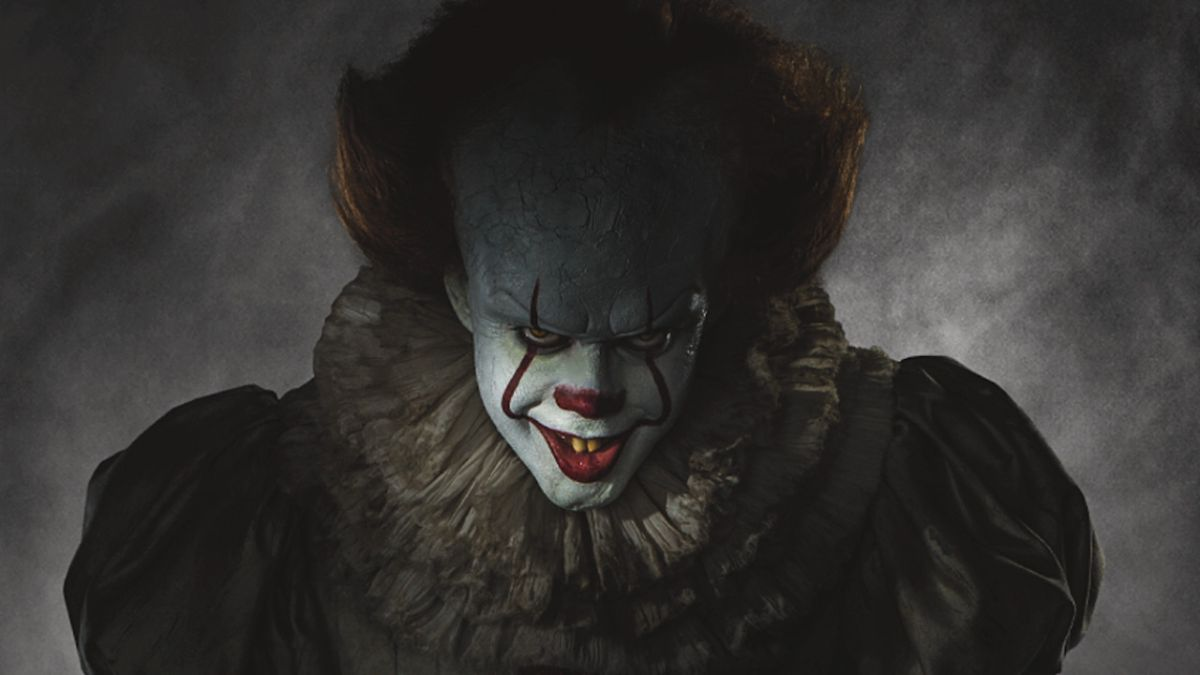
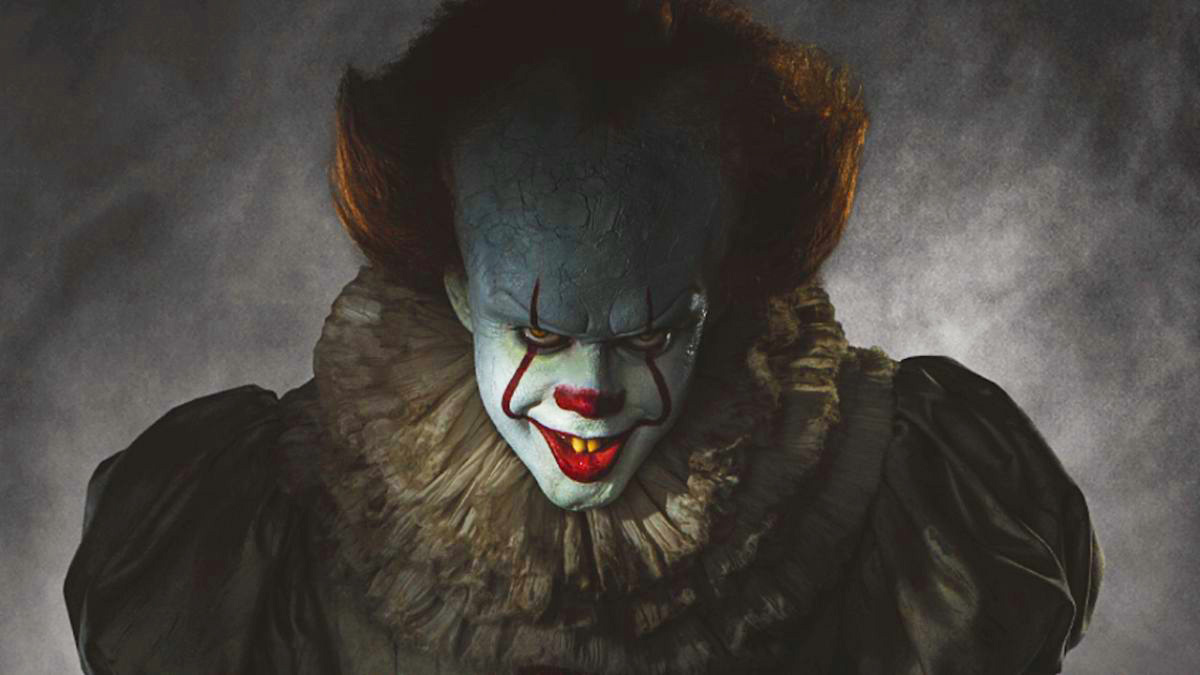
Add files via upload

diff --git a/js/app.js b/js/app.js
@@ -18,10 +18,10 @@ const productosContenedor = document.getElementById('productos-contenedor')
 
 //FX PARA CREAR LAS CARDS DE LOS PRODUCTOS
 const pintarProductos = () => {
-    
+
     //Vacio el contenedor productos para evitar duplicados cada vez que se llame a la funcion
     productosContenedor.innerHTML = []
-    
+
     //Recorro el array y creo una card por cada elemento del mismo
     productos.forEach((item) =>{
         //Estructura
@@ -60,14 +60,14 @@ const pintarProductos = () => {
     //Creo un nuevo array solo con la propiedad "tipo" de cada producto
     const tipoArray = productos.map((prod)=>prod.tipo)
 
-    //Con "...new Set(array)" hago que se eliminen los elementos duplicados 
+    //Con "...new Set(array)" hago que se eliminen los elementos duplicados
     //del array y quede uno solo de c/u
     const filtroProductos = [...new Set(tipoArray)]
 
     //Creo la opcion de filtro "Todos" para deshacer los filtros aplicados
     const tipoProdTodos = document.createElement(`li`)
     tipoProdTodos.innerHTML = `<button id="filtroTodos" type="button">Todos</button>`
-        //En caso de que el usuario elija esta opcion, se llama a la funcion para 
+        //En caso de que el usuario elija esta opcion, se llama a la funcion para
         //que se muestren todos los productos
     tipoProdTodos.addEventListener("click", pintarProductos)
     listaFiltro.appendChild(tipoProdTodos)
@@ -126,23 +126,110 @@ const pintarFiltrado = (filtrado) =>{
                 agregarAlCarrito(item.id)
         })
     })
-    
+
+}
+
+//Funcion vaciar carrito
+const vaciarCarrito = () =>{
+    carrito = []            //vaciamos el array carrito
+    carritoCantProd = 0     //reiniciamos el contador de productos del carrito
+    actualizarCarrito()     //actualizamos el modal para que se borren los items
+    localStorage.clear()    //borramos el LS
+    productos.forEach((item)=>{     //Reiniciamos la cantidad de cada producto
+        item.cantidad=1
+    })
 }
 
 //Vaciar carrito
 const btnVaciar = document.getElementById("btn-vaciar")
 btnVaciar.addEventListener("click", ()=>{
-    carrito = []            //vaciamos el array carrito
-    carritoCantProd = 0     //reiniciamos el contador de productos del carrito
-    actualizarCarrito()     //actualizamos el modal para que se borren los items
-    localStorage.clear()    //borramos el LS
-    productos.forEach((item)=>{     //Reiniciamos la cantidad de cada producto 
-        item.cantidad=1
-    })
+    vaciarCarrito()
     vaciadoToastify()
 })
+
 //Finalizar compra
 const btnFinalizar = document.getElementById("btn-finalizar")
+btnFinalizar.addEventListener('click', ()=>{
+    const steps = ['1', '2', '3', '4']
+    const swalQueueStep = Swal.mixin({
+        confirmButtonText: 'Siguiente',
+        cancelButtonText: 'Atras',
+        cancelButtonColor: '#DC3545',
+        confirmButtonColor: '#198754',
+        progressSteps: steps,
+        input: 'text',
+        inputAttributes: {
+            required: true
+        },
+        reverseButtons: true,
+        validationMessage: 'Este campo es obligatorio.'
+    })
+    async function idaYVuelta() {
+        const values = []
+        let currentStep
+        for (currentStep = 0; currentStep < steps.length;) {
+            if (steps[currentStep] == 1) {
+                var result = await swalQueueStep.fire({
+                    title: '¿Cual es tu nombre?',
+                    text: "Ingresa tu nombre completo",
+                    inputPlaceholder: "ej. Juan Peréz",
+                    inputValue: values[currentStep],
+                    showCancelButton: currentStep > 0,
+                    currentProgressStep: currentStep
+                })
+            } else if (steps[currentStep] == 2) {
+                var result = await swalQueueStep.fire({
+                    title: '¿Donde enviamos tu compra?',
+                    text: "Ingresa tu dirección",
+                    inputPlaceholder: "ej. Rivadavia 1000, Buenos Aires",
+                    inputValue: values[currentStep],
+                    showCancelButton: currentStep > 0,
+                    currentProgressStep: currentStep
+                })
+            } else if (steps[currentStep] == 3) {
+                var result = await swalQueueStep.fire({
+                    title: '¿Cual es tu mail?',
+                    text: "Ingresa tu dirección de correo electrónico",
+                    input: 'email',
+                    inputPlaceholder: "ej. juanperez@gmail.com",
+                    validationMessage: 'Ingresa un mail válido',
+                    inputValue: values[currentStep],
+                    showCancelButton: currentStep > 0,
+                    currentProgressStep: currentStep
+                })
+            } else if (steps[currentStep] == 4) {
+                var result = await swalQueueStep.fire({
+                    icon: "success",  
+                    title: "Gracias por tu compra",
+                    text: "Recibiras un mail con los detalles.",
+                    confirmButtonText: 'OK',
+                    showCancelButton: false,
+                    input: false,
+                    currentProgressStep: currentStep
+                })
+            } else {
+                break
+            }
+
+            //Agrego un condicional, si presiona el btn confirmar ("true"), avanza un paso
+            if (result.value) {
+                values[currentStep] = result.value
+                currentStep++
+            //En cambio si presiona el btn cancelar (atras), retrocede al paso anterior
+            } else if (result.dismiss === 'cancel') {
+                currentStep--
+            } else {
+                break
+            }
+            //Si se cumplen todos los pasos dispuestos en el array steps, se vaciará el carrito
+            if (currentStep === steps.length) {
+                vaciarCarrito();
+            }
+        }
+    }
+    idaYVuelta();
+})
+
 
 //Creacion de la seccion carrito
 let carrito = []
@@ -191,7 +278,7 @@ carritoHeader.prepend(carritoContador)
 const eliminarItem = (productoID)=>{
     //Traigo el producto a eliminar
     const prodEliminar = carrito.find(elim => elim.id===productoID)
-    
+
     //Verifico su cantidad en el carrito, si es mas de 1 disminuyo su cantidad
     if(prodEliminar.cantidad>1){
         prodEliminar.cantidad --
@@ -207,10 +294,10 @@ const eliminarItem = (productoID)=>{
 
 //Funcion para actualizar el carrito
 const actualizarCarrito=()=>{
-    
+
     //Se actualiza el contador del carrito
     const carritoCantProd = carrito.reduce((acc,prod)=>acc+prod.cantidad,0)
-    
+
     //Operador ternario para modificar la palabra producto/s segun cantidad de los mismos haya en el carrito
     carritoCantProd==1 ? carritoContador.innerHTML = `<span>${carritoCantProd}</span> producto` : carritoContador.innerHTML = `<span>${carritoCantProd}</span> productos`
 
@@ -232,14 +319,14 @@ const actualizarCarrito=()=>{
                 <button onclick="eliminarItem(${prod.id})" type="button" id="delete${prod.id}" class="material-symbols-outlined">delete</button>
             </li>
             <hr>
-        `      
+        `
     })
 
     //Utilizando la propiedad "importeFinal" y el metodo reduce, calculo el monto total del carrito
     const precioFinal = carrito.reduce((acc,prod)=>acc+prod.importeFinal,0)
     carritoMonto.innerText = `$${precioFinal}`
     carritoTotal.innerHTML = `<p>Total:</p><p>$${precioFinal}</p>`
-    
+
     //Guardamos en el localStorage
     const carritoJSON = JSON.stringify(carrito)
     localStorage.setItem('carrito', carritoJSON)
@@ -281,7 +368,7 @@ const agregarAlCarrito = (productoID) =>{
 }
 
 
-//Verificamos productos guardados en localStorage. 
+//Verificamos productos guardados en localStorage.
 //Es lo primero que hace la pagina al cargarse
 const carritoLS = JSON.parse(localStorage.getItem('carrito'))
 if(carritoLS){

diff --git a/index.html b/index.html
@@ -4,14 +4,15 @@
     <meta charset="UTF-8">
     <meta http-equiv="X-UA-Compatible" content="IE=edge">
     <meta name="viewport" content="width=device-width, initial-scale=1.0">
-    <title>Proyecto Final - IT Store</title>
+    <title>Proyecto final - IT Store</title>
     <link rel="stylesheet" href="https://fonts.googleapis.com/css2?family=Material+Symbols+Outlined:opsz,wght,FILL,GRAD@20..48,100..700,0..1,-50..200" />
     <link rel="stylesheet" type="text/css" href="https://cdn.jsdelivr.net/npm/toastify-js/src/toastify.min.css">
     <link href="https://cdn.jsdelivr.net/npm/bootstrap@5.2.3/dist/css/bootstrap.min.css" rel="stylesheet" integrity="sha384-rbsA2VBKQhggwzxH7pPCaAqO46MgnOM80zW1RWuH61DGLwZJEdK2Kadq2F9CUG65" crossorigin="anonymous">
     <link rel="stylesheet" href="css/style.css">
+    <script defer src="https://cdn.jsdelivr.net/npm/sweetalert2@11"></script>
     <script defer src="https://cdn.jsdelivr.net/npm/bootstrap@5.2.3/dist/js/bootstrap.bundle.min.js" integrity="sha384-kenU1KFdBIe4zVF0s0G1M5b4hcpxyD9F7jL+jjXkk+Q2h455rYXK/7HAuoJl+0I4" crossorigin="anonymous"></script>
     <script defer type="text/javascript" src="https://cdn.jsdelivr.net/npm/toastify-js"></script>
-    <script defer src="js/app.js"></script>    
+    <script defer src="js/app.js"></script>   
 </head>
 <body>
     <header>
@@ -39,12 +40,11 @@
                 <ul id="lista-filtro"></ul>
             </div>
             <div id="productos-contenedor"></div>
-            
         </div>
         
     </main>
     <!-- Modal -->
-    <div class="modal fade" id="exampleModal" tabindex="-1" aria-labelledby="exampleModalLabel" aria-hidden="true">
+    <div class="modal fade" id="exampleModal" tabindex="-1" aria-labelledby="exampleModalLabel" aria-hidden="true" data-bs-focus="false"> 
         <div class="modal-dialog modal-dialog-scrollable">
             <div class="modal-content">
                 <div class="modal-header">
@@ -62,5 +62,6 @@
             </div>
         </div>
     </div>
+ 
 </body>
 </html>

diff --git a/scss/style.scss b/scss/style.scss
@@ -59,7 +59,7 @@ main{
         .presentacion-img{
             width: 100%;
             height: 480px; 
-            background-image: linear-gradient(#212529,#212529,#2125296f,#2125296f, #2125291b) ;
+            background-image: linear-gradient(#212529,#212529,#21252951,#2125296f, #2125291b) ;
             
             display: flex;
             flex-direction: column;
@@ -121,49 +121,13 @@ main{
                 }
             }
         }
-
-        // #carrito-contenedor{
-        //     width: 30%;
-        //     background-color: lightgreen;
-        //     padding: 1rem;
-        //     margin-top: 1rem;
-        //     display: inline-block;
-        //     h3{
-        //         font-weight: bold;
-        //     }
-        //     p{
-        //         font-size: 1rem;
-        //     }
-        //     .prod-cant-carrito, .prod-precio-carrito{
-        //         font-weight: bold;
-        //     }
-
-        //     .body-card-carrito{
-        //         display: flex;
-        //         flex-direction: row;
-        //         justify-content: flex-start;
-        //         align-items: center;
-               
-        //         .img-card-carrito{
-        //             width: 30%;
-        //             height: 30%;
-        //             margin-left: 2rem;
-        //             margin-right: 1rem;
-        //         }
-        //     }
-        //     .carrito-total{
-             
-        //         font-weight: bold;
-        //     }
-        //     li{
-        //         list-style-type: none;
-        //     }
-        // }
     }
     
 }
+
 .modal-dialog{    
     width: max-content;
+
     .modal-content{
         width: max-content;
         

diff --git a/css/style.css b/css/style.css
@@ -53,7 +53,7 @@ main .presentacion-contenedor {
 main .presentacion-contenedor .presentacion-img {
   width: 100%;
   height: 480px;
-  background-image: linear-gradient(#212529, #212529, rgba(33, 37, 41, 0.4352941176), rgba(33, 37, 41, 0.4352941176), rgba(33, 37, 41, 0.1058823529));
+  background-image: linear-gradient(#212529, #212529, rgba(33, 37, 41, 0.3176470588), rgba(33, 37, 41, 0.4352941176), rgba(33, 37, 41, 0.1058823529));
   display: flex;
   flex-direction: column;
   justify-content: center;
